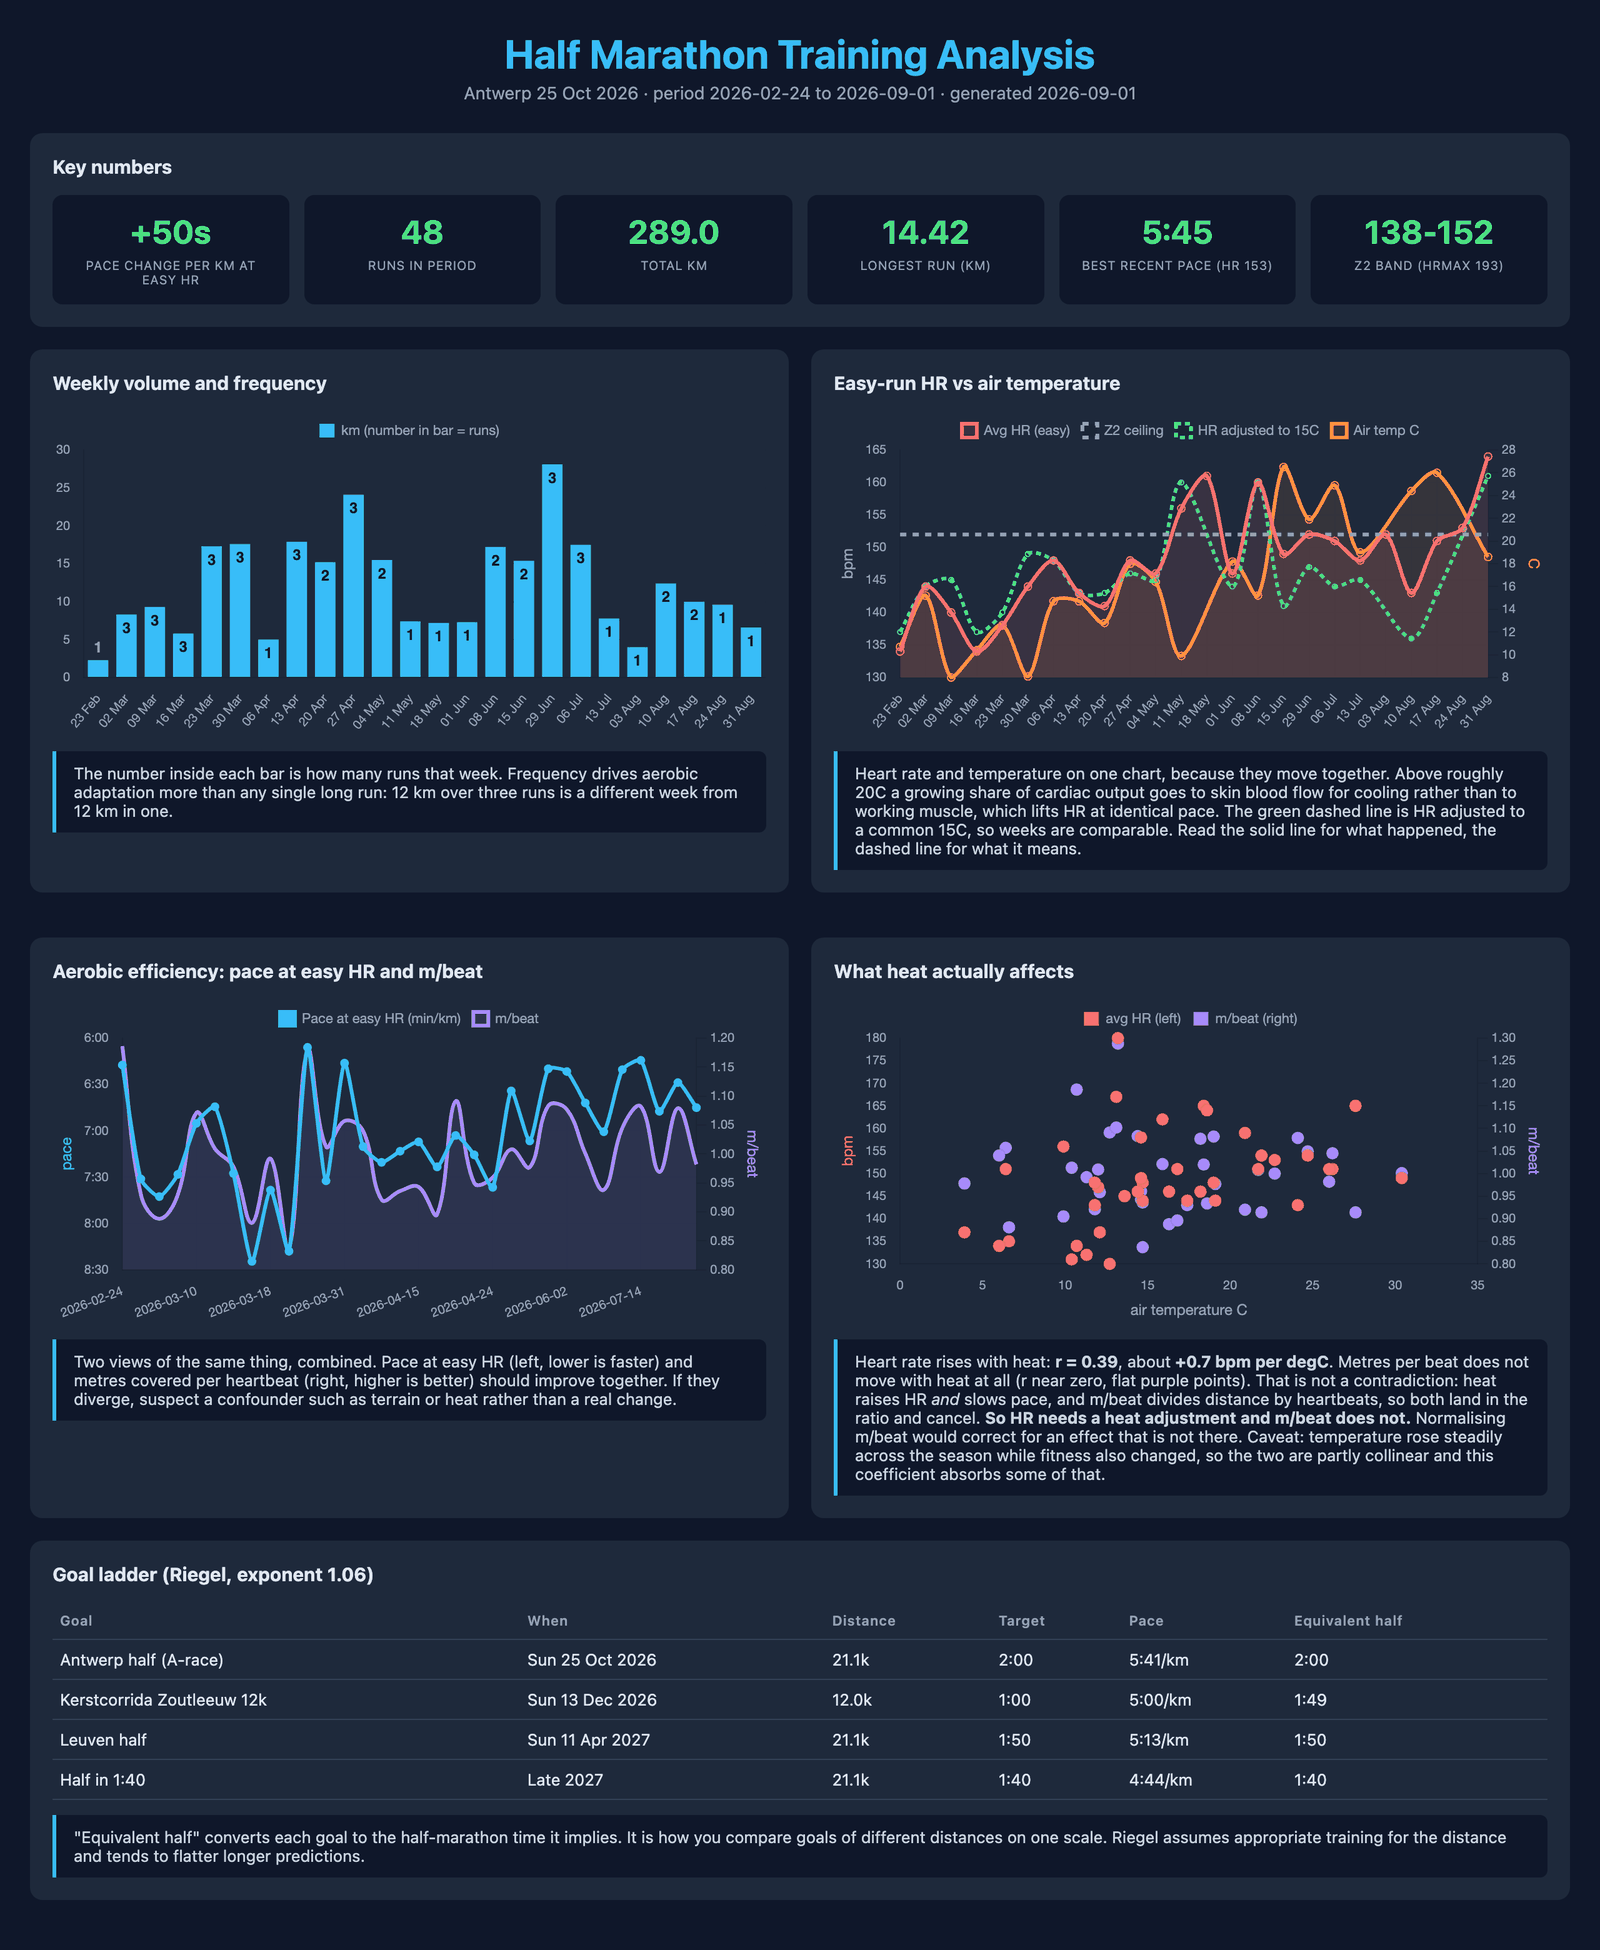
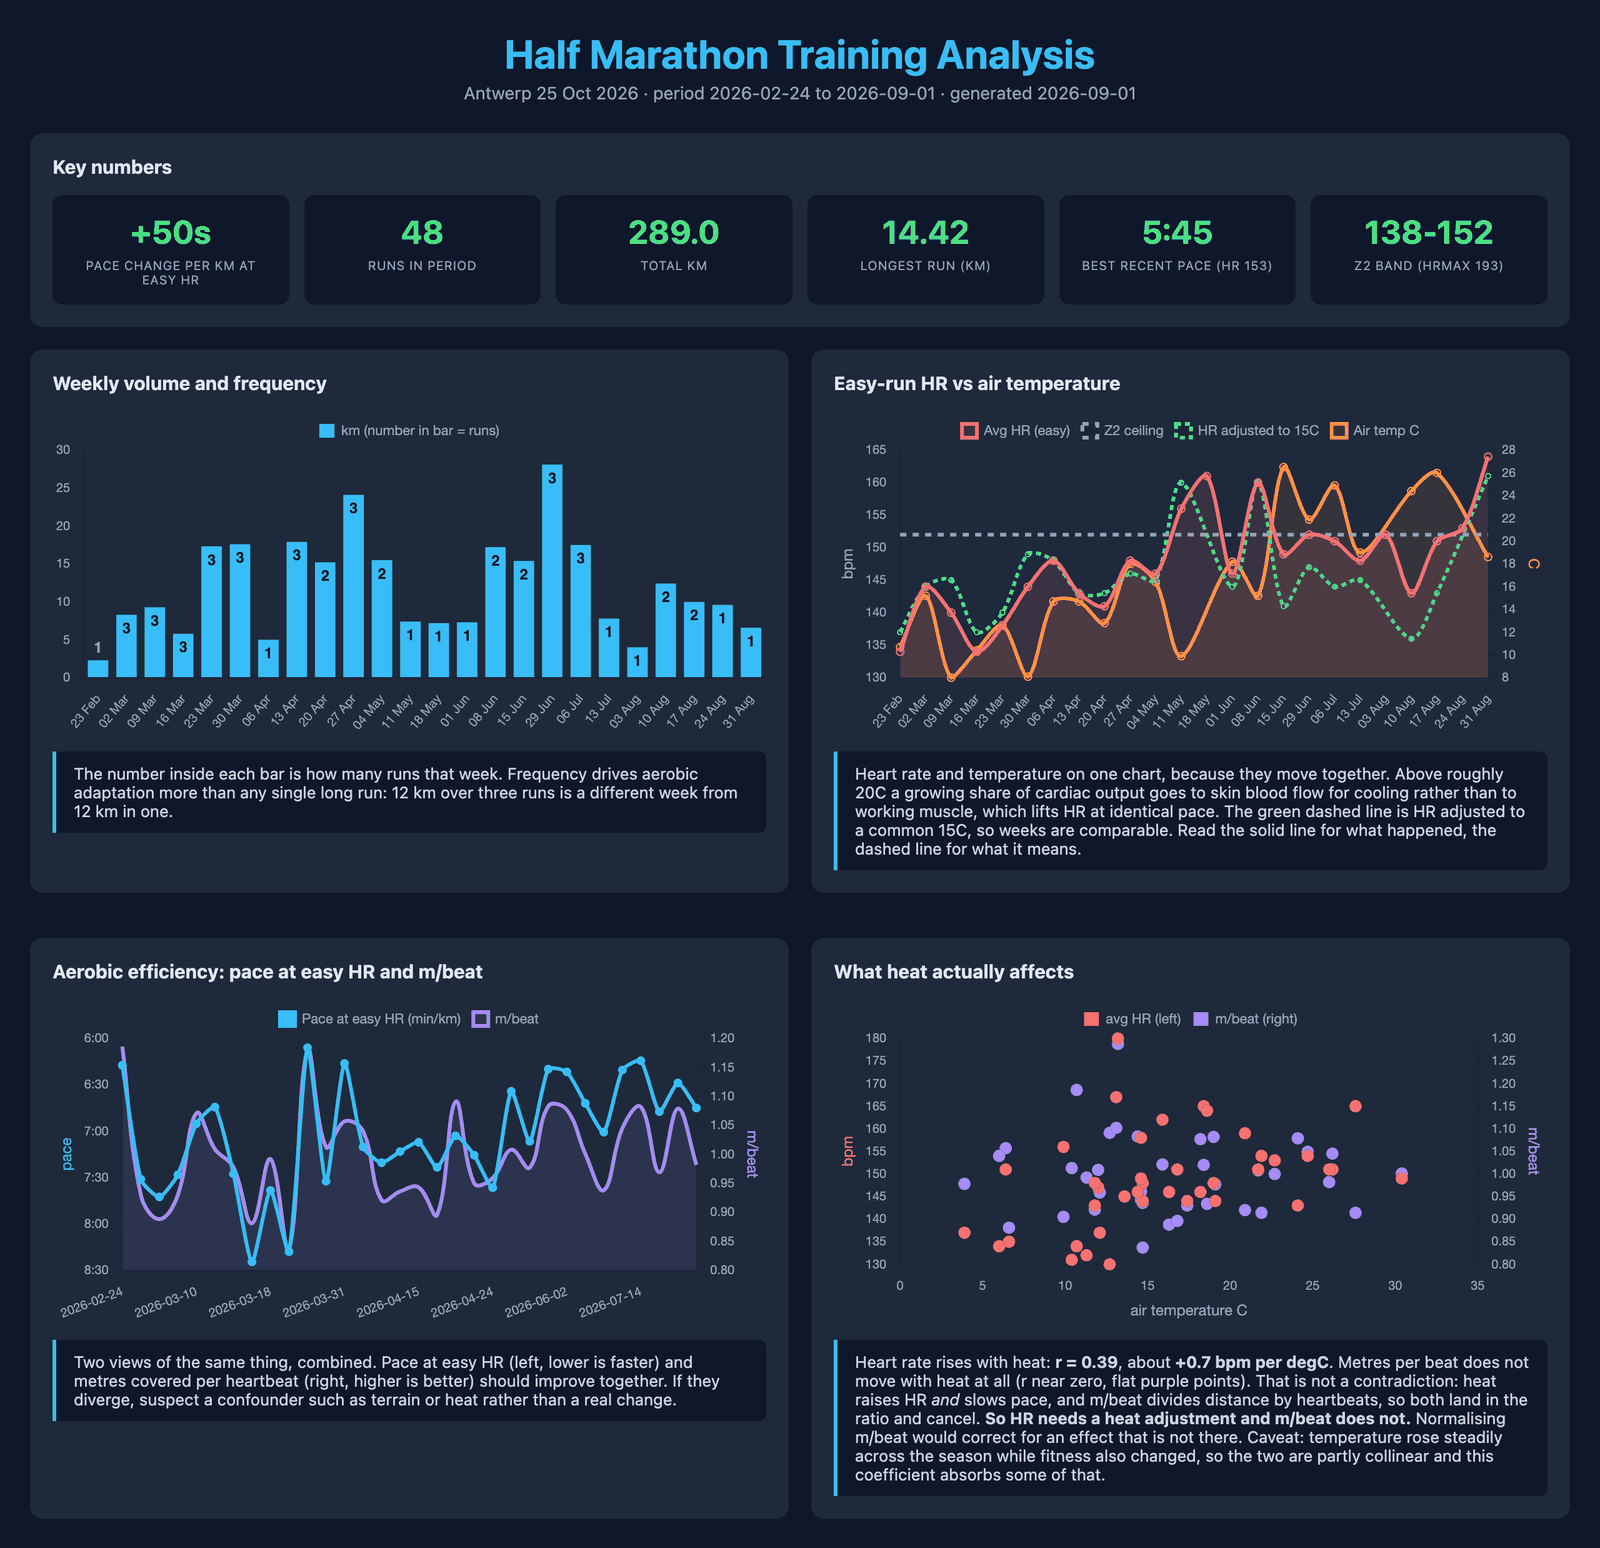
Drop the goal ladder from the dashboard screenshot
The race targets in that panel were the only real numbers left in the image.
Regenerated without the card and updated the alt text to match.

diff --git a/content/projects/running-coach.md b/content/projects/running-coach.md
@@ -10,7 +10,7 @@ tech: ['Python', 'SQLite', 'MCP', 'openpyxl', 'Chart.js']
 ## What it is
 A small toolchain that keeps a half-marathon training plan honest. It pulls my runs out of Garmin, writes the actuals back into the plan workbook next to what was prescribed, and generates a dashboard that answers one question: am I actually getting fitter, or is the weather just being kind?
 
-![The generated training dashboard: key numbers, weekly volume and run frequency, easy-run heart rate against air temperature, aerobic efficiency, a heat scatter plot and a goal ladder](/images/running-coach-dashboard.png)
+![The generated training dashboard: key numbers, weekly volume and run frequency, easy-run heart rate against air temperature, aerobic efficiency and a heat scatter plot](/images/running-coach-dashboard.png)
 
 The numbers in that screenshot are deliberately scrambled. The shape of the charts is real, the values are not.
 
